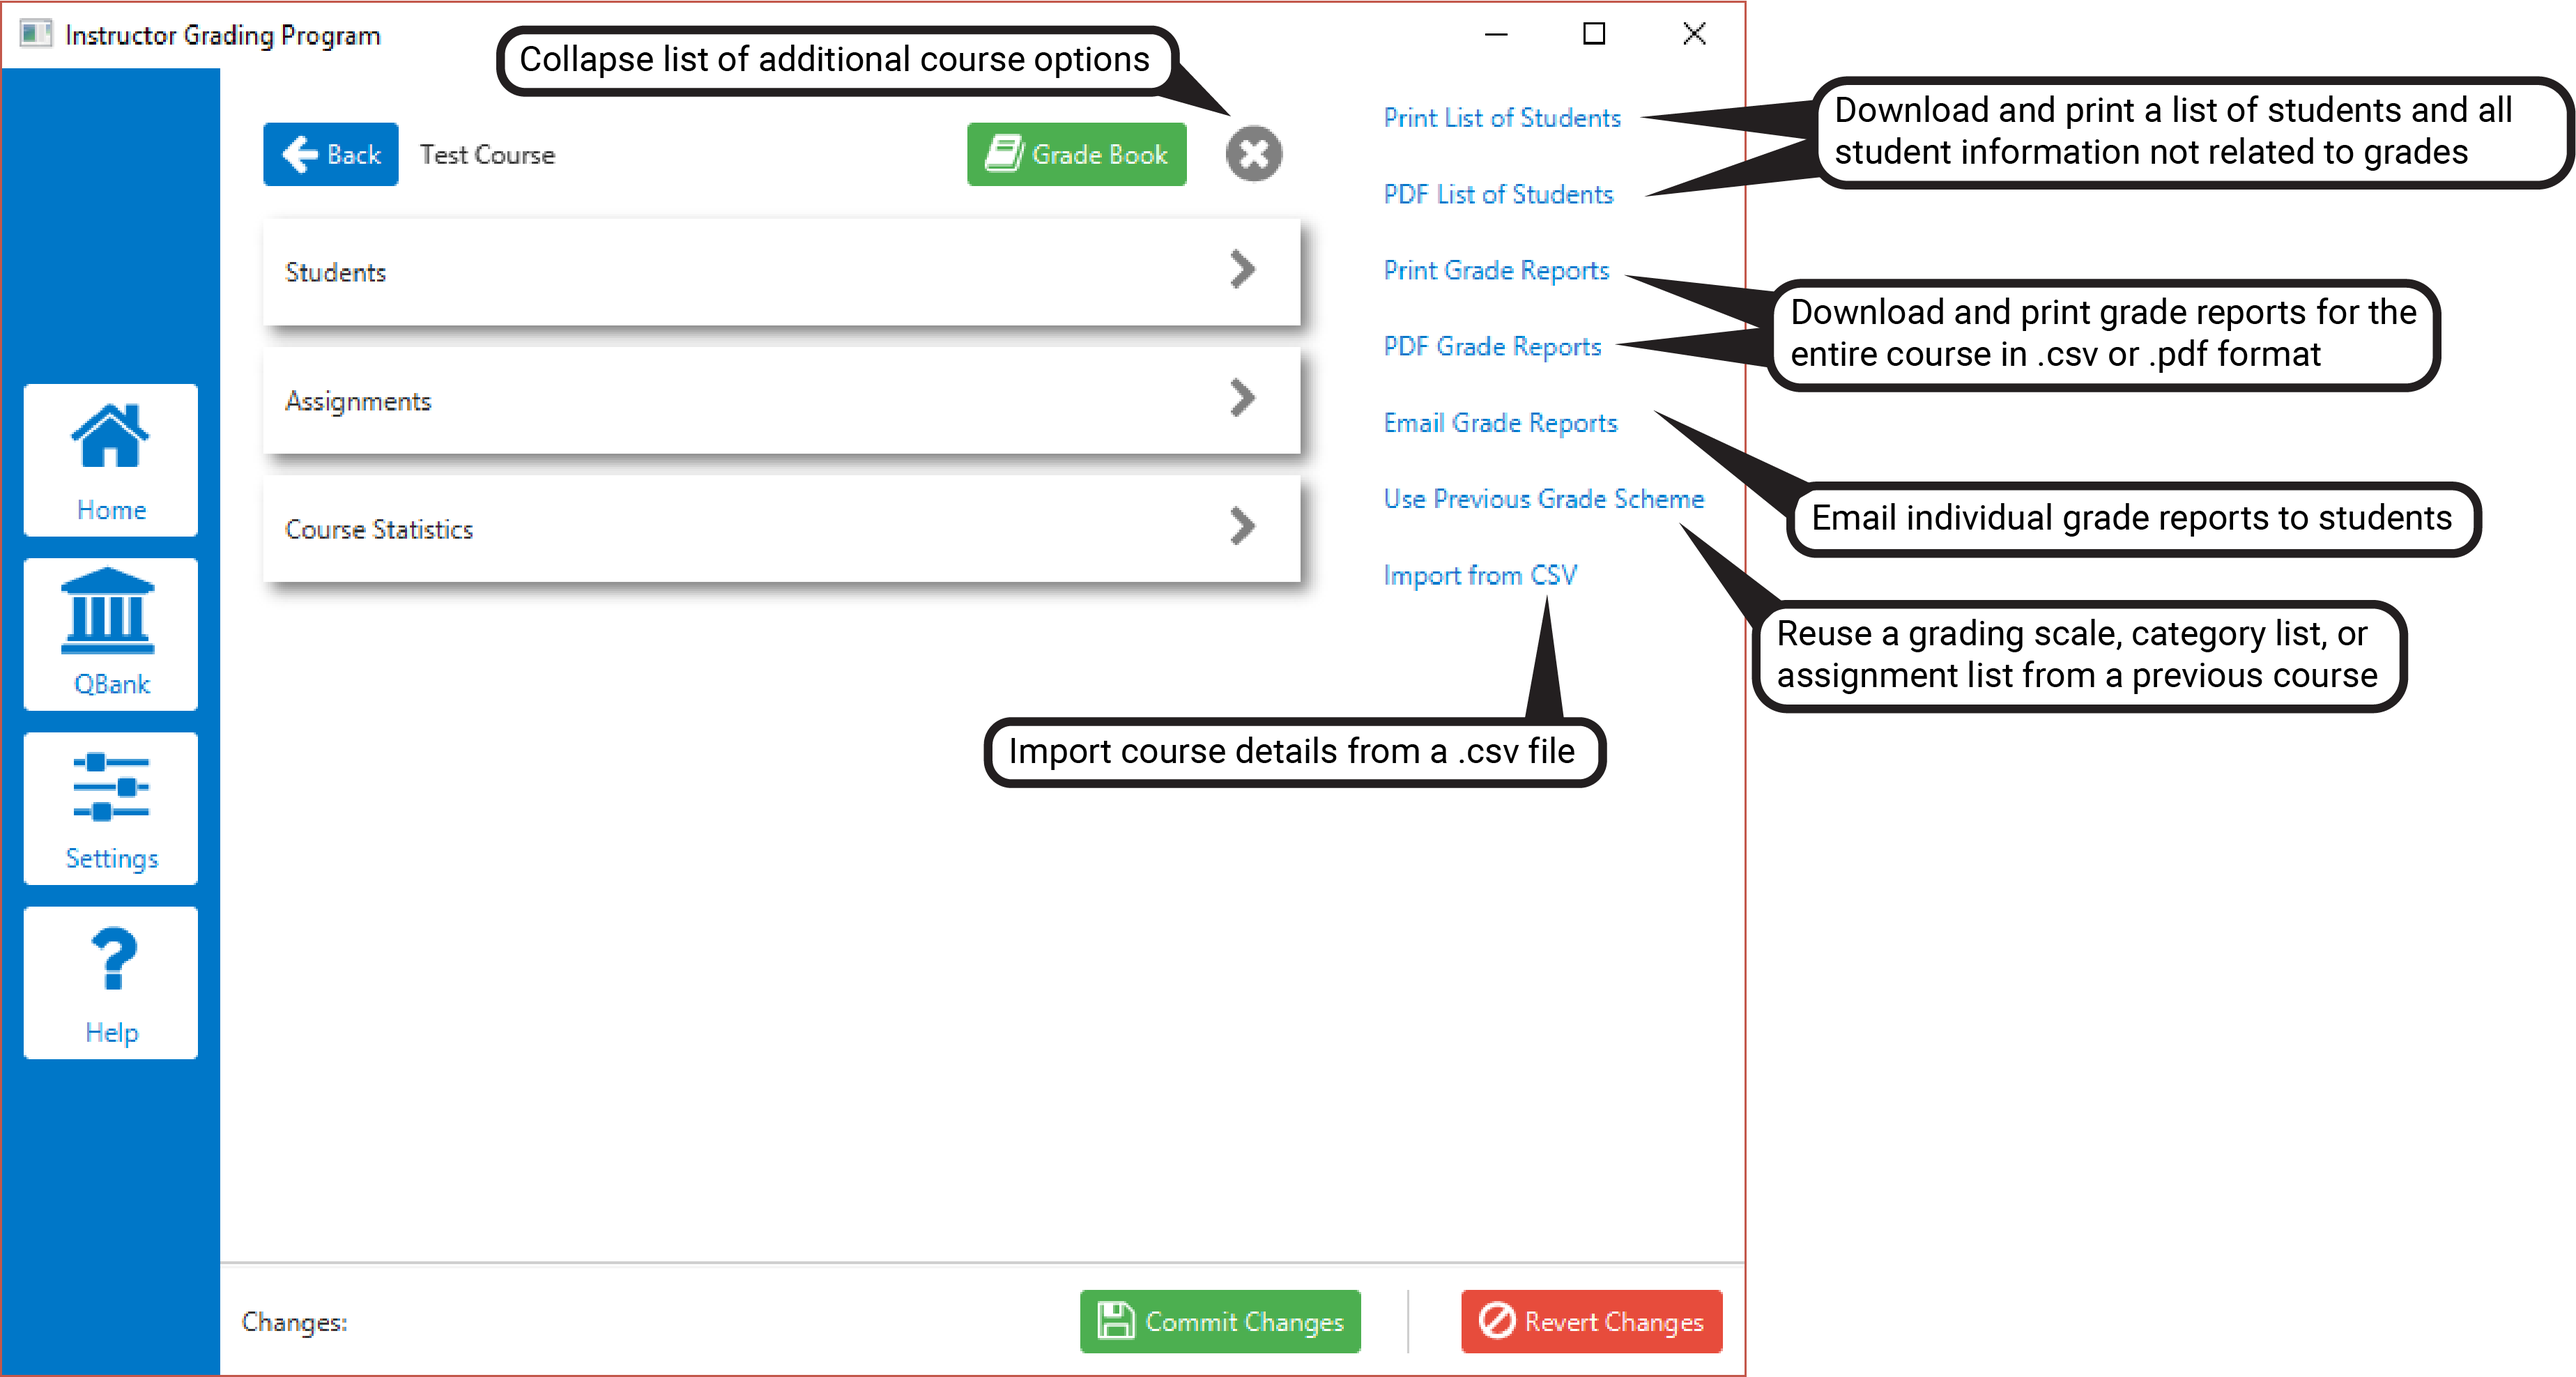
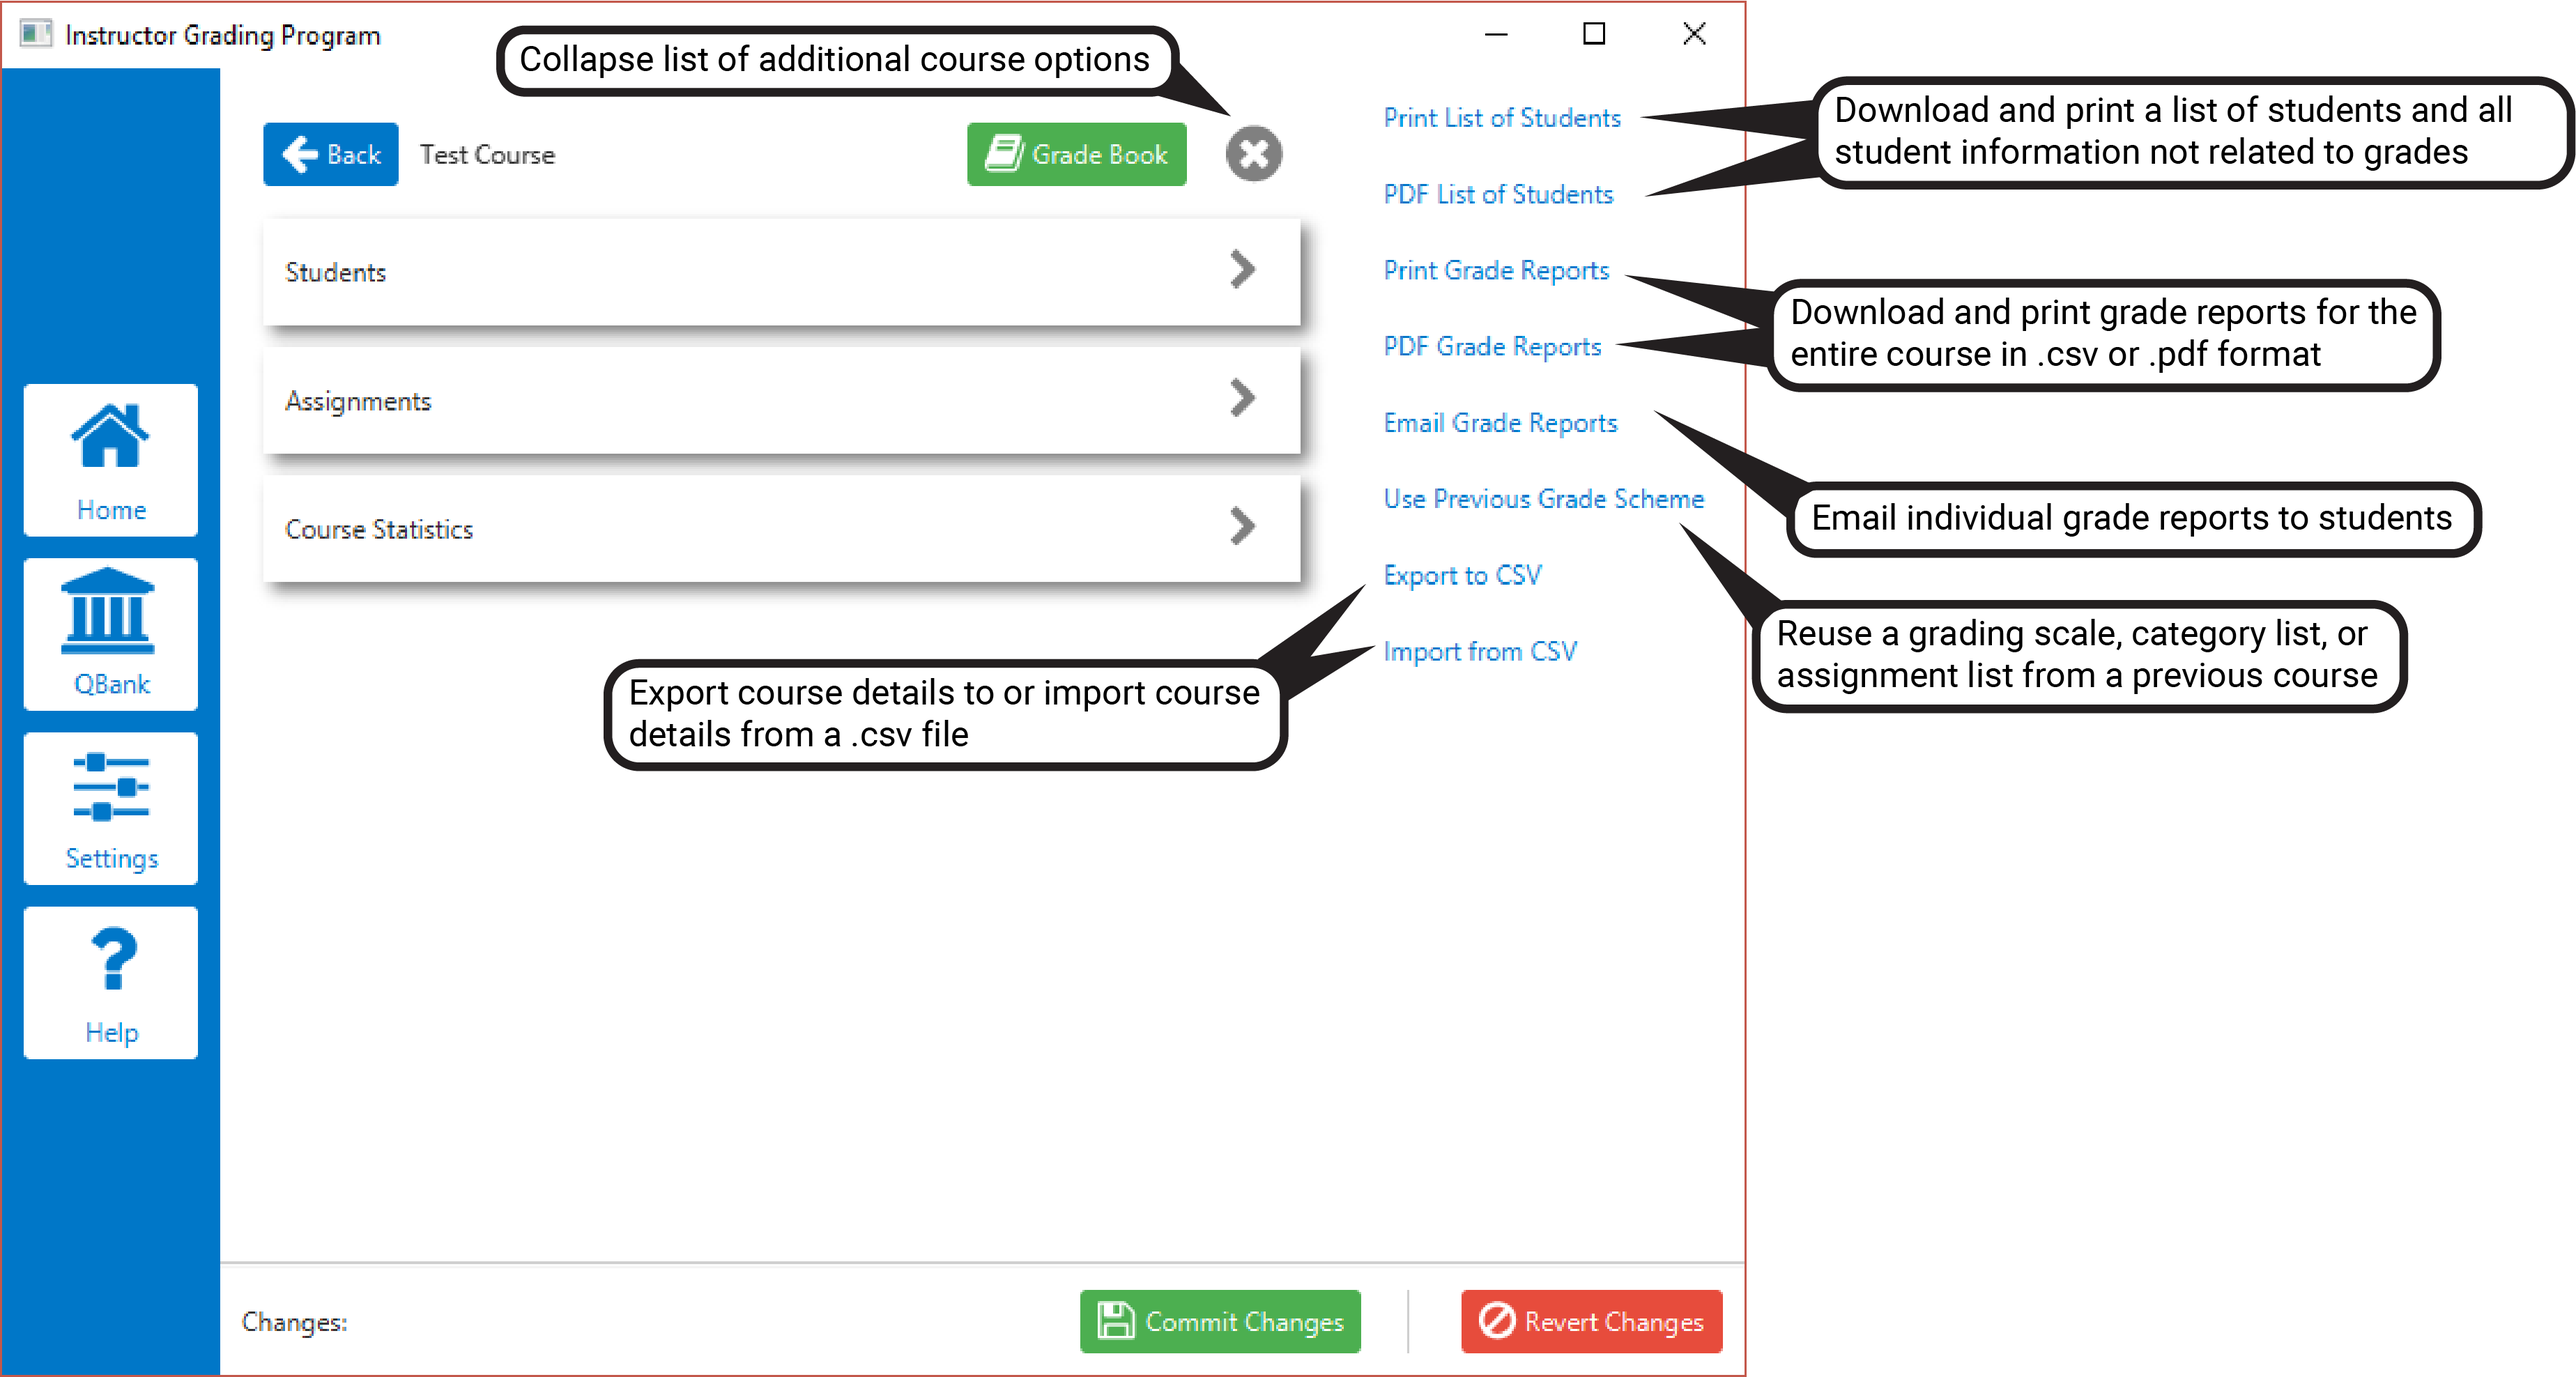
JFXDatePicker now has floating label; Updated help document

Changed region(s): [[0.2178, 0.4322, 0.6223, 0.5865], [0.529, 0.4013, 0.6223, 0.4322]]

diff --git a/res/help.html b/res/help.html
@@ -148,7 +148,7 @@
                 <li>The ability to download and print grade reports for the entire course as a .CSV or a .PDF file.</li>
                 <li>The ability to email individual academic reports to students in the course.</li>
                 <li>The ability to import a grading scale, category list, or assignment list from a previous course. See the next section for more details on this function.</li>
-                <li>The ability to import course details from a .CSV file.</li>
+                <li>The ability to export course details to and import course details from from a reusable .CSV file.</li>
             </ul>
             <a href="12%20-%20Course%20Options_annotated.png" data-lightbox="img16"><img src="12%20-%20Course%20Options_annotated.png" alt="Additional Course Functions"></a>
             <script src="lightbox-plus-jquery.js"></script><br>
